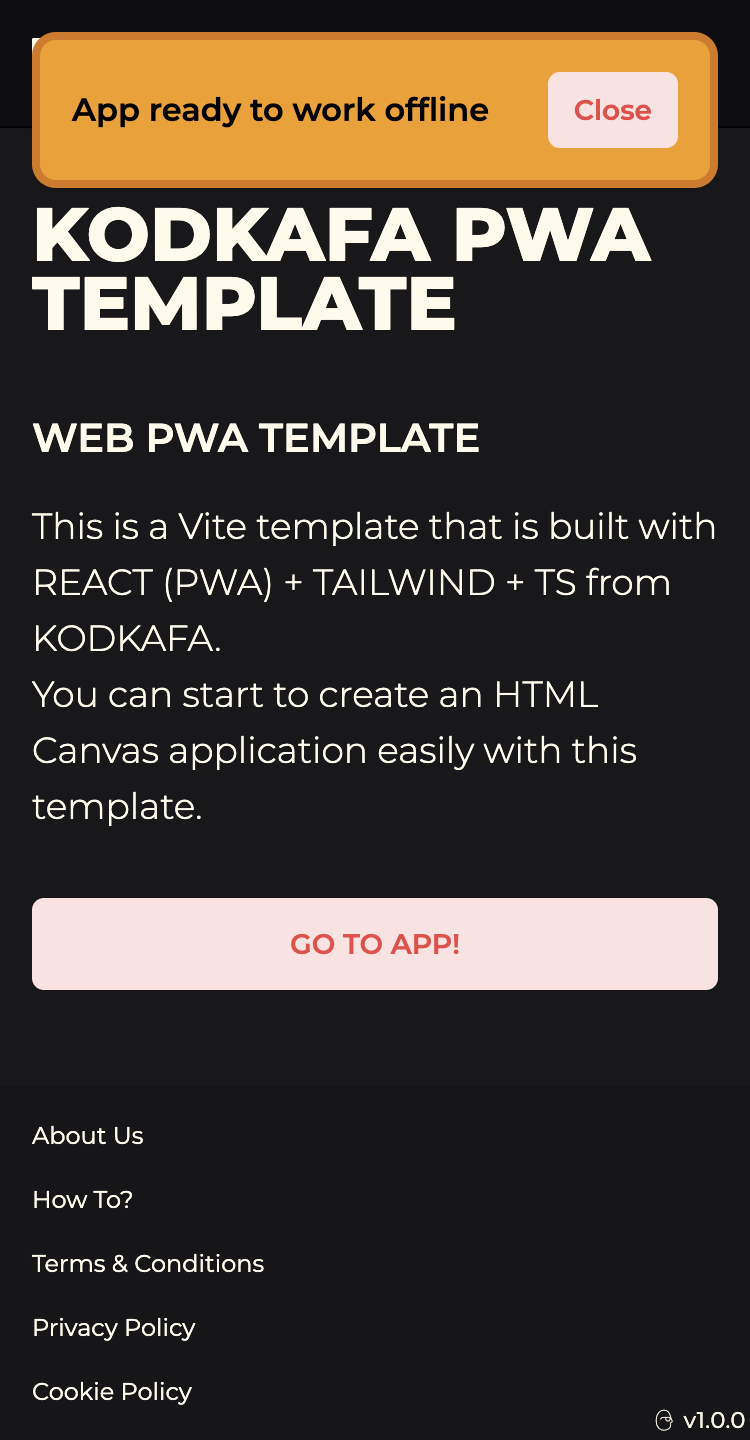
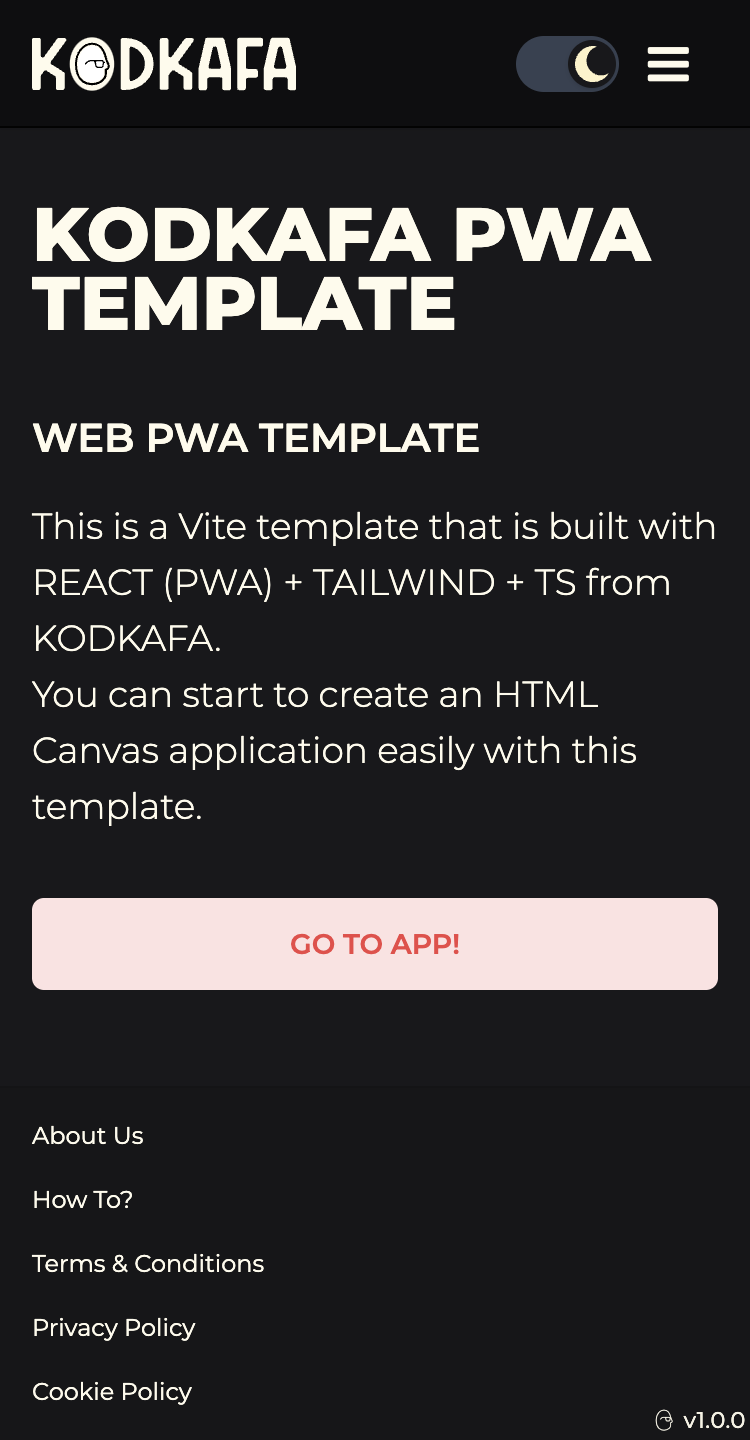
reload prompt

Changed region(s): [[0.0307, 0.0, 0.9813, 0.1562]]

diff --git a/src/layout/components/ReloadPrompt.component.tsx b/src/layout/components/ReloadPrompt.component.tsx
@@ -36,17 +36,18 @@ export default function Reload() {
             )}
           </div>
           <div>
-            {needRefresh && (
+            {needRefresh ? (
               <button
                 className='ml-4 button button-sm button-red'
                 onClick={() => updateServiceWorker(true)}
               >
                 {t('Reload')}
               </button>
+            ) : (
+              <button className='ml-4 button button-sm button-red' onClick={() => close()}>
+                {t('Close')}
+              </button>
             )}
-            <button className='ml-4 button button-sm button-red' onClick={() => close()}>
-              {t('Close')}
-            </button>
           </div>
         </div>
       )}
